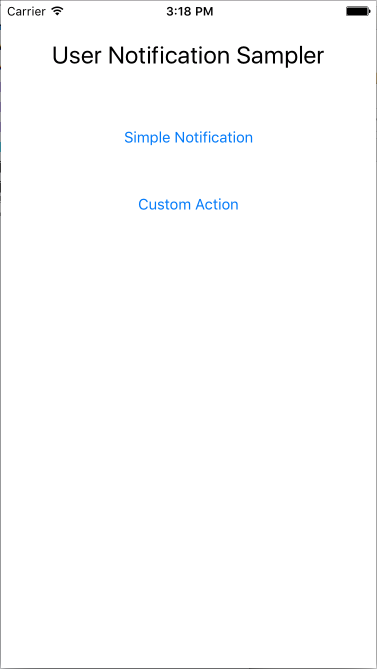
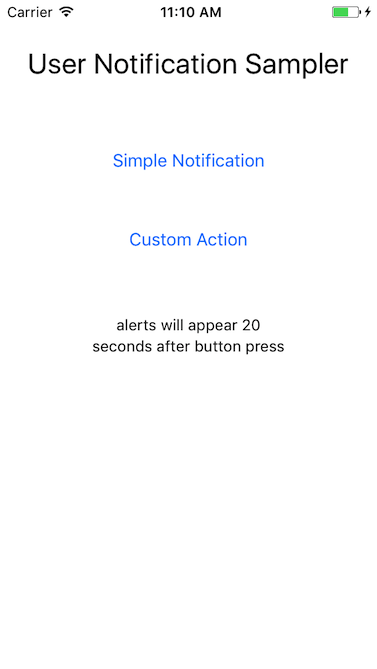
iOS 10: notifications minor usability tweak

diff --git a/ios10/MonkeyNotify/MonkeyNotify/ViewController.cs b/ios10/MonkeyNotify/MonkeyNotify/ViewController.cs
@@ -31,8 +31,8 @@ namespace MonkeyNotify
 			content.Subtitle = "Notification Subtitle";
 			content.Body = "This is the message body of the notification.";
 
-			// Fire trigger in one minute
-			var trigger = UNTimeIntervalNotificationTrigger.CreateTrigger(60, false);
+			// Fire trigger in twenty seconds
+			var trigger = UNTimeIntervalNotificationTrigger.CreateTrigger(20, false);
 
 			var requestID = "sampleRequest";
 			var request = UNNotificationRequest.FromIdentifier(requestID, content, trigger);
@@ -63,7 +63,7 @@ namespace MonkeyNotify
 			var categoryID = "message";
 			var actions = new UNNotificationAction[] { action };
 			var intentIDs = new string[] { };
-			var categoryOptions = new UNNotificationCategoryOptions[] { };
+			//var categoryOptions = new UNNotificationCategoryOptions[] { };
 			var category = UNNotificationCategory.FromIdentifier(categoryID, actions, intentIDs, UNNotificationCategoryOptions.None);
 
 			// Register category
@@ -78,8 +78,8 @@ namespace MonkeyNotify
 			content.Badge = 1;
 			content.CategoryIdentifier = "message";
 
-			// Fire trigger in one minute
-			var trigger = UNTimeIntervalNotificationTrigger.CreateTrigger(60, false);
+			// Fire trigger in twenty seconds
+			var trigger = UNTimeIntervalNotificationTrigger.CreateTrigger(20, false);
 
 			var requestID = "sampleRequest";
 			var request = UNNotificationRequest.FromIdentifier(requestID, content, trigger);
